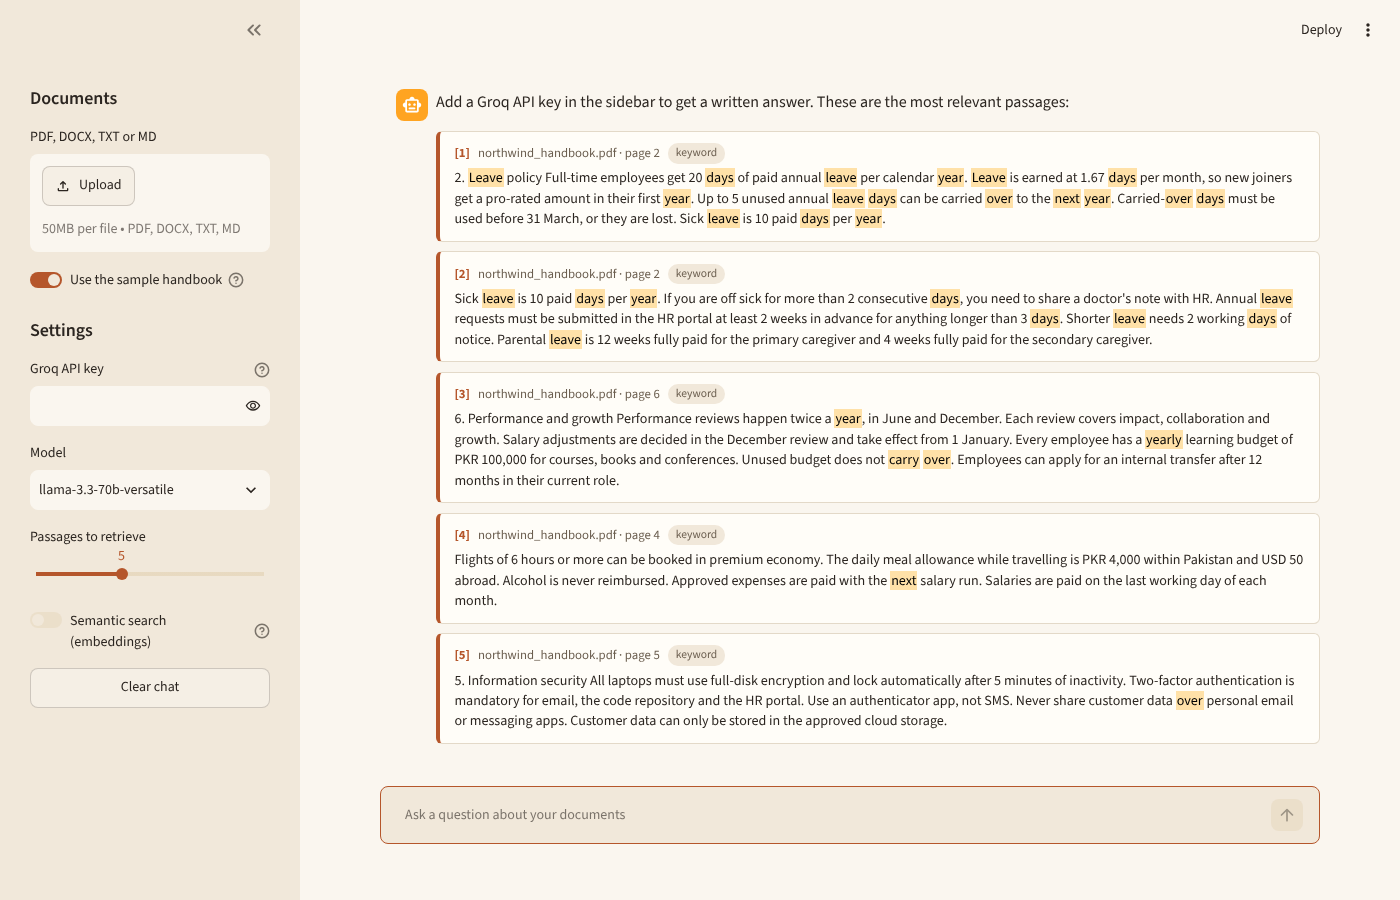
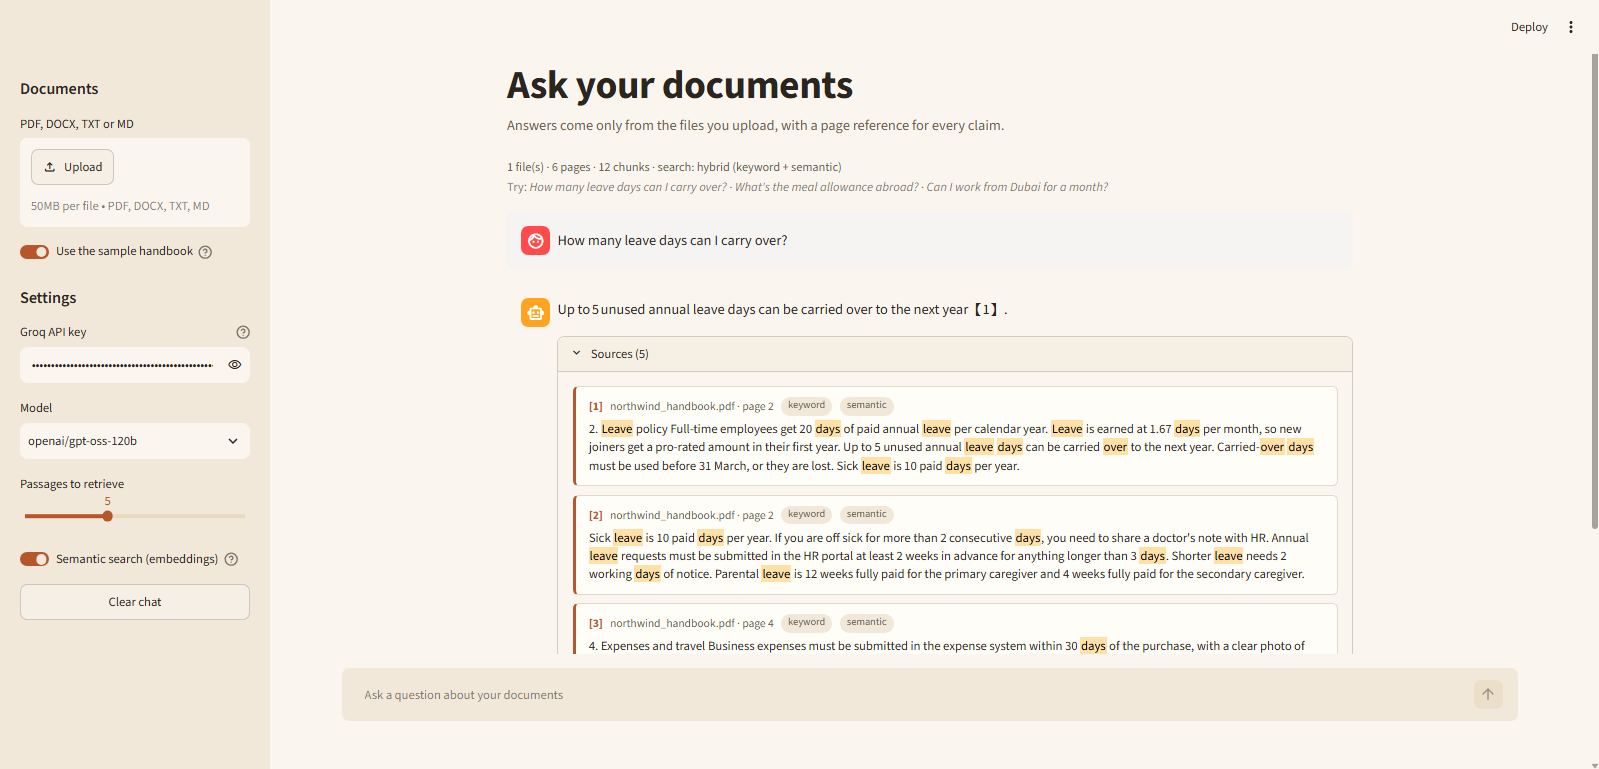
Handle fullwidth citation brackets, add real screenshot

diff --git a/rag/llm.py b/rag/llm.py
@@ -34,9 +34,17 @@ def build_messages(question: str, hits: list[Hit], history: list[dict] | None = 
     return messages
 
 
+_BRACKETS = str.maketrans({"【": "[", "】": "]", "［": "[", "］": "]"})
+
+
+def normalise_citations(text: str) -> str:
+    """Some models (e.g. GPT-OSS) write citations as 【1】; turn them into [1]."""
+    return text.translate(_BRACKETS)
+
+
 def cited_numbers(answer: str, n_hits: int) -> list[int]:
     """Citation numbers that actually appear in the answer and point to a real passage."""
-    nums = {int(n) for n in re.findall(r"\[(\d+)\]", answer)}
+    nums = {int(n) for n in re.findall(r"\[\s*(\d+)\s*\]", normalise_citations(answer))}
     return sorted(n for n in nums if 1 <= n <= n_hits)
 
 
@@ -56,9 +64,9 @@ class GroqLLM:
         for event in resp:
             delta = event.choices[0].delta.content
             if delta:
-                yield delta
+                yield normalise_citations(delta)
 
     def complete(self, messages: list[dict]) -> str:
         resp = self.client.chat.completions.create(model=self.model, messages=messages,
                                                    temperature=self.temperature)
-        return resp.choices[0].message.content
+        return normalise_citations(resp.choices[0].message.content)

diff --git a/tests/test_rag.py b/tests/test_rag.py
@@ -112,3 +112,9 @@ def test_prompt_numbers_passages(sample_index):
 
 def test_cited_numbers_ignores_invalid_references():
     assert cited_numbers("Yes [1]. Also [3][2] and [9].", n_hits=3) == [1, 2, 3]
+
+
+def test_fullwidth_citations_are_understood():
+    from rag.llm import normalise_citations
+    assert cited_numbers("Up to 5 days can be carried over 【1】.", n_hits=5) == [1]
+    assert normalise_citations("days 【1】【3】") == "days [1][3]"

diff --git a/README.md b/README.md
@@ -3,7 +3,7 @@
 Ask questions about your own PDFs and documents and get answers that **only use what's in the files**, with a page reference on every claim. It uses hybrid search (keyword + semantic), a relevance guard against made-up answers, and GPT-OSS 120B through Groq.
 
 ![App screenshot](images/screenshot.png)
-*Retrieval-only mode (no API key yet): the most relevant passages with the matching words highlighted.*
+*The sample handbook loaded, with a cited answer and the source passage it came from (matching words highlighted).*
 
 ## Features
 
